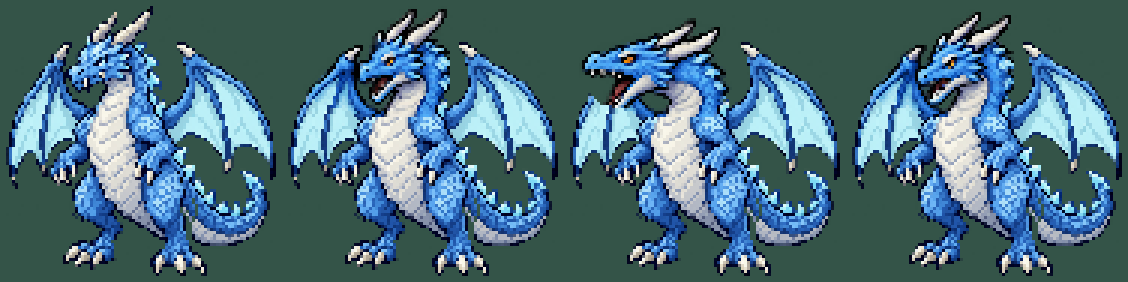
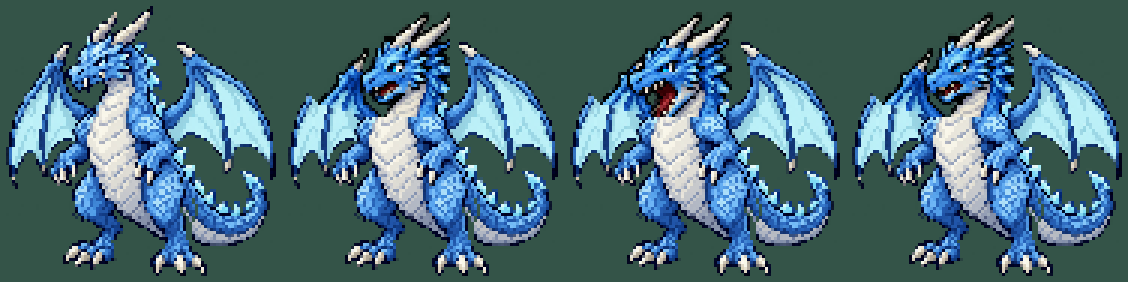
Restore compact frost dragon face and blue eyes in attack loop

Changed region(s): [[0.4965, 0.0284, 0.6516, 0.4255], [0.2482, 0.0284, 0.4034, 0.4255], [0.7757, 0.0284, 0.8998, 0.4255]]

diff --git a/design/enemies/dragon_frost/attack/PROMPT.md b/design/enemies/dragon_frost/attack/PROMPT.md
@@ -1,1 +1,1 @@
-Built-in image_gen edit. Reference: ../move/dragon_frost_1.png. Four-frame open-mouth loop. NO FIRE or particles. Frame1 exact original file. Frames2-4 original body pixels retained, only head/neck area edited. Closed to partial open to full open to partial close, left facing original narrow face., jaws open, ivory teeth visible. Frame1 medium gape, frame2 wider, frame3 maximum, frame4 return. Preserve blue pixel-art dragon, feet anchored, transparent background. Export: 94x94 PNG; 0.14s per frame.
+Built-in image_gen edit. Reference: ../move/dragon_frost_1.png. Four-frame open-mouth loop. NO FIRE or particles. Frame1 exact original file. Frames2-4 original body pixels retained, only head/neck area edited. Closed to partial open to full open to partial close. Preserve compact original face and BLUE CYAN EYES, no orange eyes., jaws open, ivory teeth visible. Frame1 medium gape, frame2 wider, frame3 maximum, frame4 return. Preserve blue pixel-art dragon, feet anchored, transparent background. Export: 94x94 PNG; 0.14s per frame.
